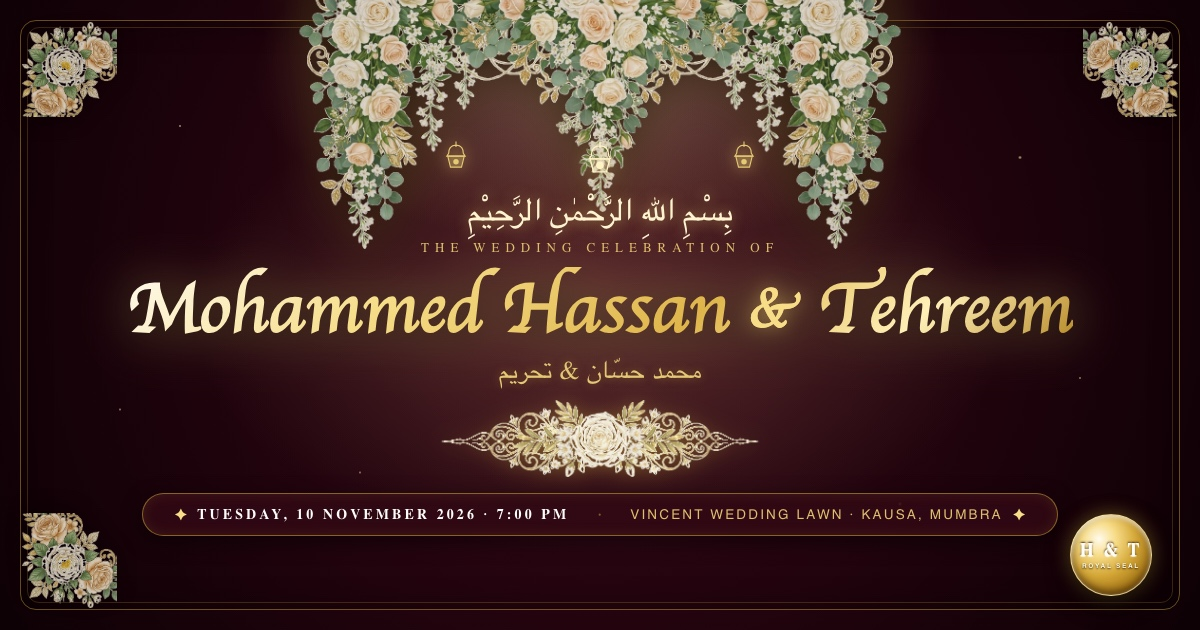
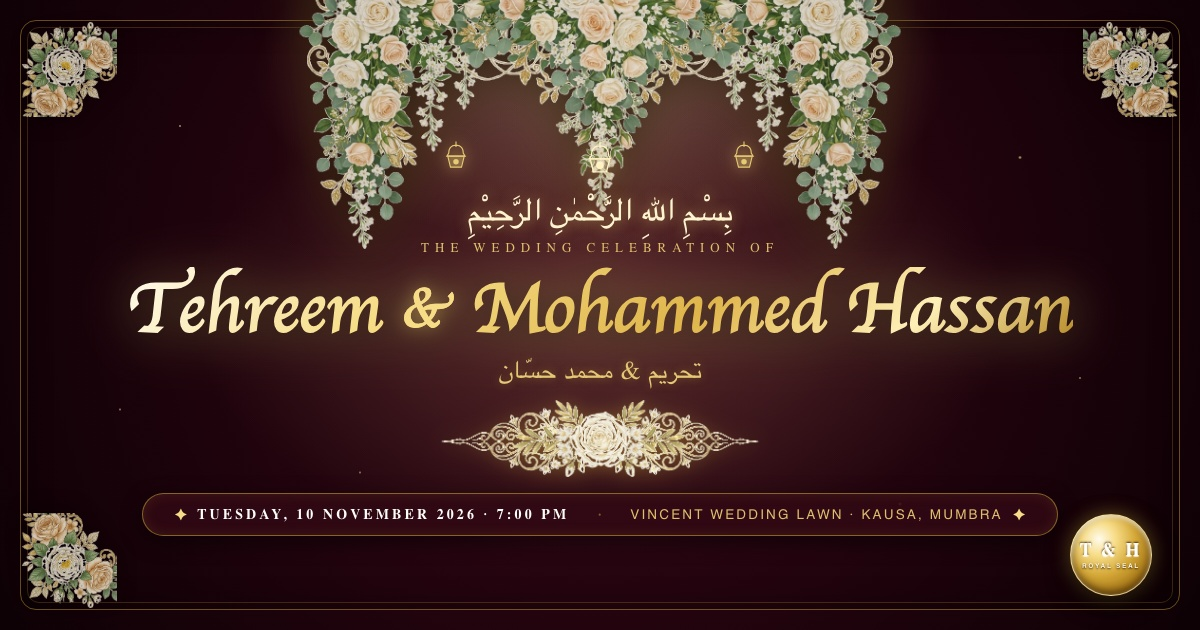
Put Tehreem first across all names, cards, seal (T & H), and social preview

Changed region(s): [[0.0925, 0.4222, 0.8942, 0.5429], [0.4008, 0.573, 0.5858, 0.6032], [0.8942, 0.8444, 0.9558, 0.9048]]

diff --git a/index.html b/index.html
@@ -4,30 +4,30 @@
 <meta charset="utf-8">
 <meta name="viewport" content="width=device-width, initial-scale=1, viewport-fit=cover">
 <meta name="theme-color" content="#1a0309">
-<title>Mohammed Hassan &amp; Tehreem — Wedding Invitation</title>
-<meta name="description" content="Mohammed Hassan &amp; Tehreem invite you to celebrate their wedding on Tuesday, 10 November 2026 at Vincent Wedding Lawn, Kausa, Mumbra, Thane.">
+<title>Tehreem &amp; Mohammed Hassan — Wedding Invitation</title>
+<meta name="description" content="Tehreem &amp; Mohammed Hassan invite you to celebrate their wedding on Tuesday, 10 November 2026 at Vincent Wedding Lawn, Kausa, Mumbra, Thane.">
 
 <link rel="canonical" href="https://tehreem-weds-hassan.invitingyou.top/">
 
 <!-- Open Graph / WhatsApp / Facebook Preview Cards -->
-<meta property="og:site_name" content="Mohammed Hassan &amp; Tehreem Wedding">
+<meta property="og:site_name" content="Tehreem &amp; Mohammed Hassan Wedding">
 <meta property="og:type" content="website">
 <meta property="og:url" content="https://tehreem-weds-hassan.invitingyou.top/">
-<meta property="og:title" content="Mohammed Hassan &amp; Tehreem — Royal Wedding Celebration">
-<meta property="og:description" content="Together with their families, Mohammed Hassan &amp; Tehreem joyfully invite you to celebrate their wedding on Tuesday, 10 November 2026 at Vincent Wedding Lawn, Kausa, Mumbra. Touch to unveil the royal invitation.">
+<meta property="og:title" content="Tehreem &amp; Mohammed Hassan — Royal Wedding Celebration">
+<meta property="og:description" content="Together with their families, Tehreem &amp; Mohammed Hassan joyfully invite you to celebrate their wedding on Tuesday, 10 November 2026 at Vincent Wedding Lawn, Kausa, Mumbra. Touch to unveil the royal invitation.">
 <meta property="og:image" content="https://tehreem-weds-hassan.invitingyou.top/assets/images/og-image.jpg">
 <meta property="og:image:secure_url" content="https://tehreem-weds-hassan.invitingyou.top/assets/images/og-image.jpg">
 <meta property="og:image:type" content="image/jpeg">
 <meta property="og:image:width" content="1200">
 <meta property="og:image:height" content="630">
-<meta property="og:image:alt" content="Mohammed Hassan &amp; Tehreem Royal Wedding Celebration Invitation">
+<meta property="og:image:alt" content="Tehreem &amp; Mohammed Hassan Royal Wedding Celebration Invitation">
 <meta property="og:locale" content="en_US">
 
 <!-- Twitter Card -->
 <meta name="twitter:card" content="summary_large_image">
 <meta name="twitter:url" content="https://tehreem-weds-hassan.invitingyou.top/">
-<meta name="twitter:title" content="Mohammed Hassan &amp; Tehreem — Royal Wedding Celebration">
-<meta name="twitter:description" content="Together with their families, Mohammed Hassan &amp; Tehreem joyfully invite you to celebrate their wedding on Tuesday, 10 November 2026 at Vincent Wedding Lawn, Kausa, Mumbra. Touch to unveil the royal invitation.">
+<meta name="twitter:title" content="Tehreem &amp; Mohammed Hassan — Royal Wedding Celebration">
+<meta name="twitter:description" content="Together with their families, Tehreem &amp; Mohammed Hassan joyfully invite you to celebrate their wedding on Tuesday, 10 November 2026 at Vincent Wedding Lawn, Kausa, Mumbra. Touch to unveil the royal invitation.">
 <meta name="twitter:image" content="https://tehreem-weds-hassan.invitingyou.top/assets/images/og-image.jpg">
 
 <link rel="preconnect" href="https://fonts.googleapis.com">
@@ -143,9 +143,9 @@
     <p class="envelope__eyebrow">The Wedding Celebration of</p>
     
     <h1 class="envelope__names">
-      <span id="env-groom">Mohammed Hassan</span>
-      <span class="amp">&amp;</span>
       <span id="env-bride">Tehreem</span>
+      <span class="amp">&amp;</span>
+      <span id="env-groom">Mohammed Hassan</span>
     </h1>
 
     <div class="envelope__divider" aria-hidden="true">
@@ -165,7 +165,7 @@
         <div class="seal-ring" aria-hidden="true"></div>
         <div class="seal-core">
           <span class="seal-sparkle" aria-hidden="true">✦</span>
-          <span class="seal-monogram">H &amp; T</span>
+          <span class="seal-monogram">T &amp; H</span>
           <span class="seal-text">OPEN INVITATION</span>
         </div>
       </button>
@@ -227,9 +227,9 @@
       <p class="hero__eyebrow reveal">The Wedding Celebration of</p>
       
       <h1 class="hero__names reveal">
-        <span id="hero-groom">Mohammed Hassan</span>
-        <span class="amp">&amp;</span>
         <span id="hero-bride">Tehreem</span>
+        <span class="amp">&amp;</span>
+        <span id="hero-groom">Mohammed Hassan</span>
       </h1>
 
       <div class="hero__floral-divider reveal" aria-hidden="true">
@@ -257,24 +257,7 @@
     <p class="lead reveal" id="inviteIntro"></p>
 
     <div class="couple-grid">
-      <div class="couple-card reveal">
-        <img src="assets/images/floral/floral_corner.png" class="card-floral-corner card-floral-corner--tl" alt="" aria-hidden="true">
-        <img src="assets/images/floral/floral_corner.png" class="card-floral-corner card-floral-corner--br" alt="" aria-hidden="true">
-        <div class="couple-card__inner">
-          <div class="couple-card__ornament">✦</div>
-          <h2 class="couple-card__name" id="cardGroom">Mohammed Hassan</h2>
-          <p class="couple-card__label" id="groomLabel"></p>
-          <p class="couple-card__parents" id="groomParents"></p>
-          <p class="couple-card__place" id="groomPlace"></p>
-        </div>
-      </div>
-
-      <div class="couple-grid__amp reveal" aria-hidden="true">
-        <span class="amp-gem">✦</span>
-        <span class="amp-text">&amp;</span>
-        <span class="amp-gem">✦</span>
-      </div>
-
+      <!-- Bride Card First -->
       <div class="couple-card reveal">
         <img src="assets/images/floral/floral_corner.png" class="card-floral-corner card-floral-corner--tl" alt="" aria-hidden="true">
         <img src="assets/images/floral/floral_corner.png" class="card-floral-corner card-floral-corner--br" alt="" aria-hidden="true">
@@ -284,6 +267,25 @@
           <p class="couple-card__label" id="brideLabel"></p>
           <p class="couple-card__parents" id="brideParents"></p>
           <p class="couple-card__place" id="bridePlace"></p>
+        </div>
+      </div>
+
+      <div class="couple-grid__amp reveal" aria-hidden="true">
+        <span class="amp-gem">✦</span>
+        <span class="amp-text">&amp;</span>
+        <span class="amp-gem">✦</span>
+      </div>
+
+      <!-- Groom Card Second -->
+      <div class="couple-card reveal">
+        <img src="assets/images/floral/floral_corner.png" class="card-floral-corner card-floral-corner--tl" alt="" aria-hidden="true">
+        <img src="assets/images/floral/floral_corner.png" class="card-floral-corner card-floral-corner--br" alt="" aria-hidden="true">
+        <div class="couple-card__inner">
+          <div class="couple-card__ornament">✦</div>
+          <h2 class="couple-card__name" id="cardGroom">Mohammed Hassan</h2>
+          <p class="couple-card__label" id="groomLabel"></p>
+          <p class="couple-card__parents" id="groomParents"></p>
+          <p class="couple-card__place" id="groomPlace"></p>
         </div>
       </div>
     </div>
@@ -296,7 +298,7 @@
     <div class="wreath reveal">
       <img src="assets/images/floral/floral_wreath_crest.png" alt="" class="wreath__floral-img" loading="lazy">
       <div class="wreath__initials">
-        <span id="monoGroom">H</span><span class="amp">&amp;</span><span id="monoBride">T</span>
+        <span id="monoBride">T</span><span class="amp">&amp;</span><span id="monoGroom">H</span>
       </div>
     </div>
     <p class="monogram__line reveal" id="monogramLine"></p>

diff --git a/js/main.js b/js/main.js
@@ -20,17 +20,17 @@
 
   function fillContent() {
     var c = C.couple || {};
-    document.title = c.pageTitle || (c.groom + " & " + c.bride);
+    document.title = c.pageTitle || (c.bride + " & " + c.groom);
 
-    ["env-groom", "hero-groom"].forEach(function (id) { setText(id, c.groom); });
     ["env-bride", "hero-bride"].forEach(function (id) { setText(id, c.bride); });
-    setText("cardGroom", c.groom);
+    ["env-groom", "hero-groom"].forEach(function (id) { setText(id, c.groom); });
     setText("cardBride", c.bride);
+    setText("cardGroom", c.groom);
     setText("hero-tagline", c.tagline);
-    setText("closingNames", c.groom + " & " + c.bride);
+    setText("closingNames", c.bride + " & " + c.groom);
 
-    if (c.groomArabic || c.brideArabic) {
-      setText("hero-arabic", [c.groomArabic, c.brideArabic].filter(Boolean).join("  &  "));
+    if (c.brideArabic || c.groomArabic) {
+      setText("hero-arabic", [c.brideArabic, c.groomArabic].filter(Boolean).join("  &  "));
     }
 
     /* Faith block */
@@ -53,26 +53,26 @@
     var inv = C.invitation || {};
     setText("inviteIntro", inv.intro);
     setText("inviteNote", inv.note);
-    if (inv.groomSide) {
-      setText("groomLabel", inv.groomSide.label);
-      setHTML("groomParents", inv.groomSide.parents);
-      setText("groomPlace", inv.groomSide.place);
-    }
     if (inv.brideSide) {
       setText("brideLabel", inv.brideSide.label);
       setHTML("brideParents", inv.brideSide.parents);
       setText("bridePlace", inv.brideSide.place);
     }
+    if (inv.groomSide) {
+      setText("groomLabel", inv.groomSide.label);
+      setHTML("groomParents", inv.groomSide.parents);
+      setText("groomPlace", inv.groomSide.place);
+    }
 
-    /* Monogram wreath & seal */
+    /* Monogram wreath & seal (Tehreem & Hassan -> T & H) */
     var ini = c.initials || {};
-    var gInitial = ini.groom || (c.groom || "").charAt(0) || "H";
     var bInitial = ini.bride || (c.bride || "").charAt(0) || "T";
-    setText("monoGroom", gInitial);
+    var gInitial = ini.groom || (c.groom || "").charAt(0) || "H";
     setText("monoBride", bInitial);
+    setText("monoGroom", gInitial);
     setText("monogramLine", inv.monogramLine);
     var sealMono = $(".seal-monogram");
-    if (sealMono) sealMono.textContent = gInitial + " & " + bInitial;
+    if (sealMono) sealMono.textContent = bInitial + " & " + gInitial;
 
     setText("footerLine", C.footer && C.footer.line);
 
@@ -253,12 +253,12 @@
   function wireShare() {
     var btn = $("#shareBtn");
     if (!btn) return;
-    var title = (C.couple.groom || "Mohammed Hassan") + " & " + (C.couple.bride || "Tehreem") + " — Wedding Invitation";
+    var title = (C.couple.bride || "Tehreem") + " & " + (C.couple.groom || "Mohammed Hassan") + " — Wedding Invitation";
     btn.addEventListener("click", function () {
       if (navigator.share) {
         navigator.share({
           title: title,
-          text: "You are joyfully invited to the wedding of " + (C.couple.groom || "") + " & " + (C.couple.bride || "") + " on 10 November 2026 at Vincent Wedding Lawn.",
+          text: "You are joyfully invited to the wedding of " + (C.couple.bride || "Tehreem") + " & " + (C.couple.groom || "Mohammed Hassan") + " on 10 November 2026 at Vincent Wedding Lawn.",
           url: location.href
         }).catch(function () {});
       } else if (navigator.clipboard) {

diff --git a/js/config.js b/js/config.js
@@ -6,13 +6,13 @@ var CONFIG = {
 
   /* ---------- 1. THE COUPLE ---------- */
   couple: {
-    groom:        "Mohammed Hassan",
     bride:        "Tehreem",
-    groomArabic:  "محمد حسّان",
+    groom:        "Mohammed Hassan",
     brideArabic:  "تحريم",
-    initials:     { groom: "H", bride: "T" },
+    groomArabic:  "محمد حسّان",
+    initials:     { bride: "T", groom: "H" },
     tagline:      "are getting married",
-    pageTitle:    "Mohammed Hassan & Tehreem — Wedding Invitation"
+    pageTitle:    "Tehreem & Mohammed Hassan — Wedding Invitation"
   },
 
   /* ---------- 2. RELIGIOUS / CULTURAL FRAMING ---------- */
@@ -30,14 +30,14 @@ var CONFIG = {
   /* ---------- 3. THE INVITATION TEXT ---------- */
   invitation: {
     intro: "With hearts full of gratitude to the Almighty, we joyfully invite you and your family to share in the celebration of our wedding.",
-    groomSide: {
-      label:   "Groom",
-      parents: "Son of Mrs. Afroz & Mr. Feroz Khan",
-      place:   "Mumbai / Thane"
-    },
     brideSide: {
       label:   "Bride",
       parents: "Daughter of Mrs. Reshma & Mr. Irfan Mulla",
+      place:   "Mumbai / Thane"
+    },
+    groomSide: {
+      label:   "Groom",
+      parents: "Son of Mrs. Afroz & Mr. Feroz Khan",
       place:   "Mumbai / Thane"
     },
     note: "Your gracious presence and heartfelt duas are our greatest blessing.",
@@ -86,7 +86,7 @@ var CONFIG = {
 
   /* ---------- 9. FOOTER ---------- */
   footer: {
-    line: "Celebrating the union of Mohammed Hassan & Tehreem"
+    line: "Celebrating the union of Tehreem & Mohammed Hassan"
   }
 };
 

diff --git a/og-card.html b/og-card.html
@@ -344,12 +344,12 @@
 
     <!-- Couple Names in Majestic Script -->
     <h1 class="couple-names">
-      <span>Mohammed Hassan</span>
-      <span class="couple-amp">&amp;</span>
       <span>Tehreem</span>
+      <span class="couple-amp">&amp;</span>
+      <span>Mohammed Hassan</span>
     </h1>
 
-    <div class="couple-arabic">محمد حسّان &amp; تحريم</div>
+    <div class="couple-arabic">تحريم &amp; محمد حسّان</div>
 
     <!-- Symmetrical Botanical Divider -->
     <img src="assets/images/floral/floral_divider_bar.png" class="botanical-divider" alt="">
@@ -371,7 +371,7 @@
 
   <!-- 3D Gold Embossed Wax Seal in Bottom Right Corner -->
   <div class="floating-seal">
-    <div class="floating-seal-mono">H &amp; T</div>
+    <div class="floating-seal-mono">T &amp; H</div>
     <div class="floating-seal-tag">Royal Seal</div>
   </div>
 
